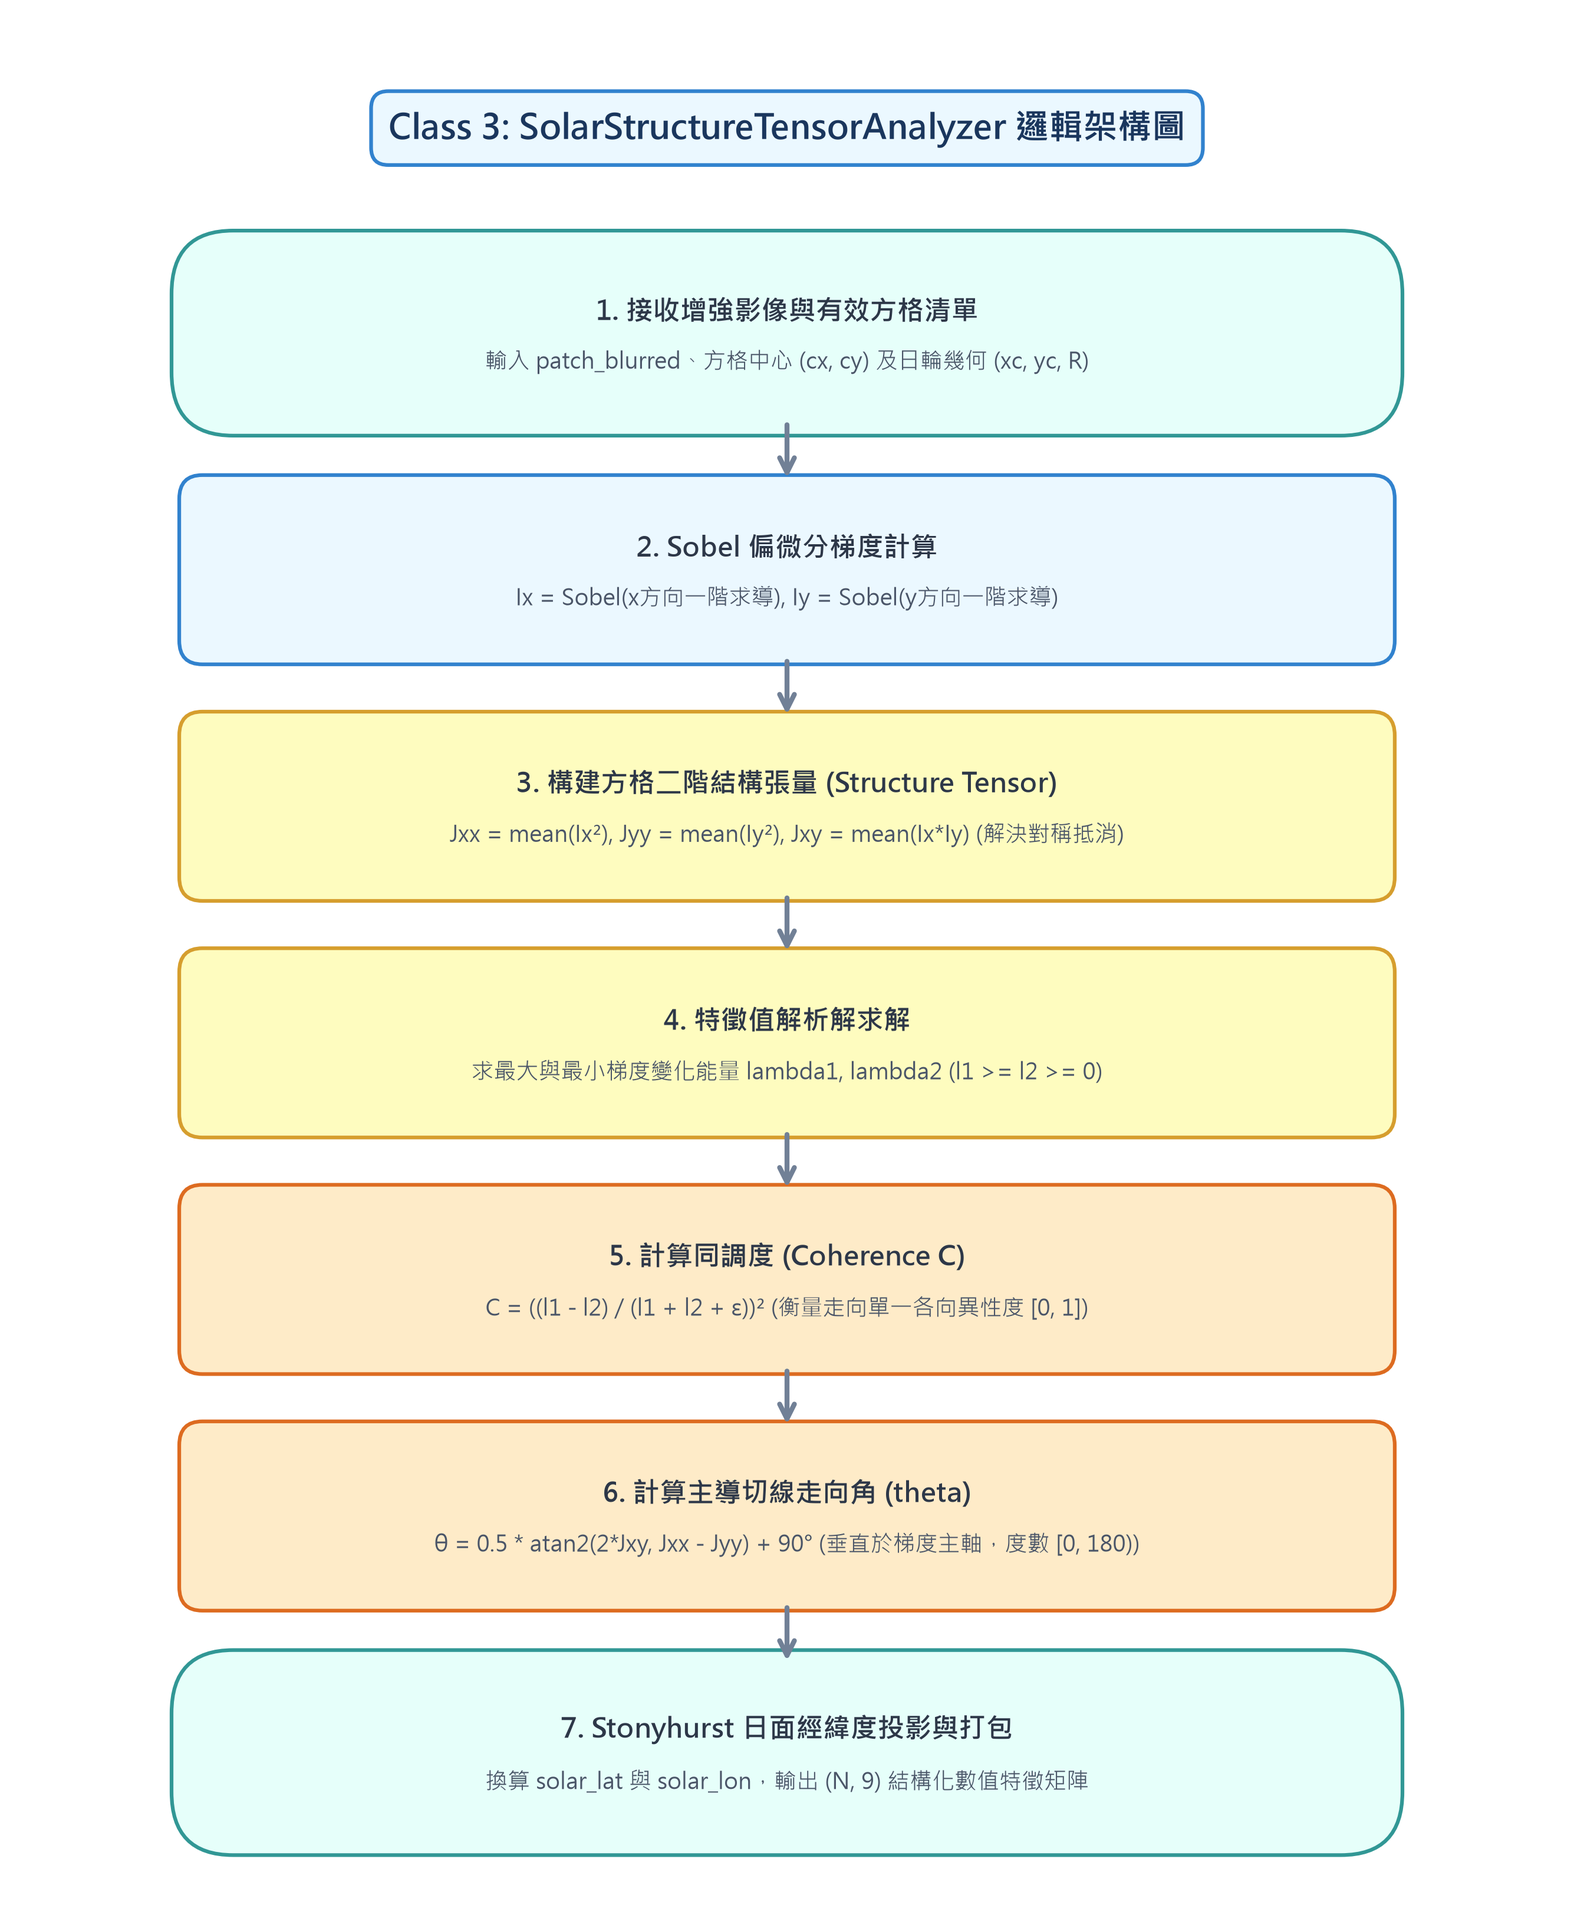
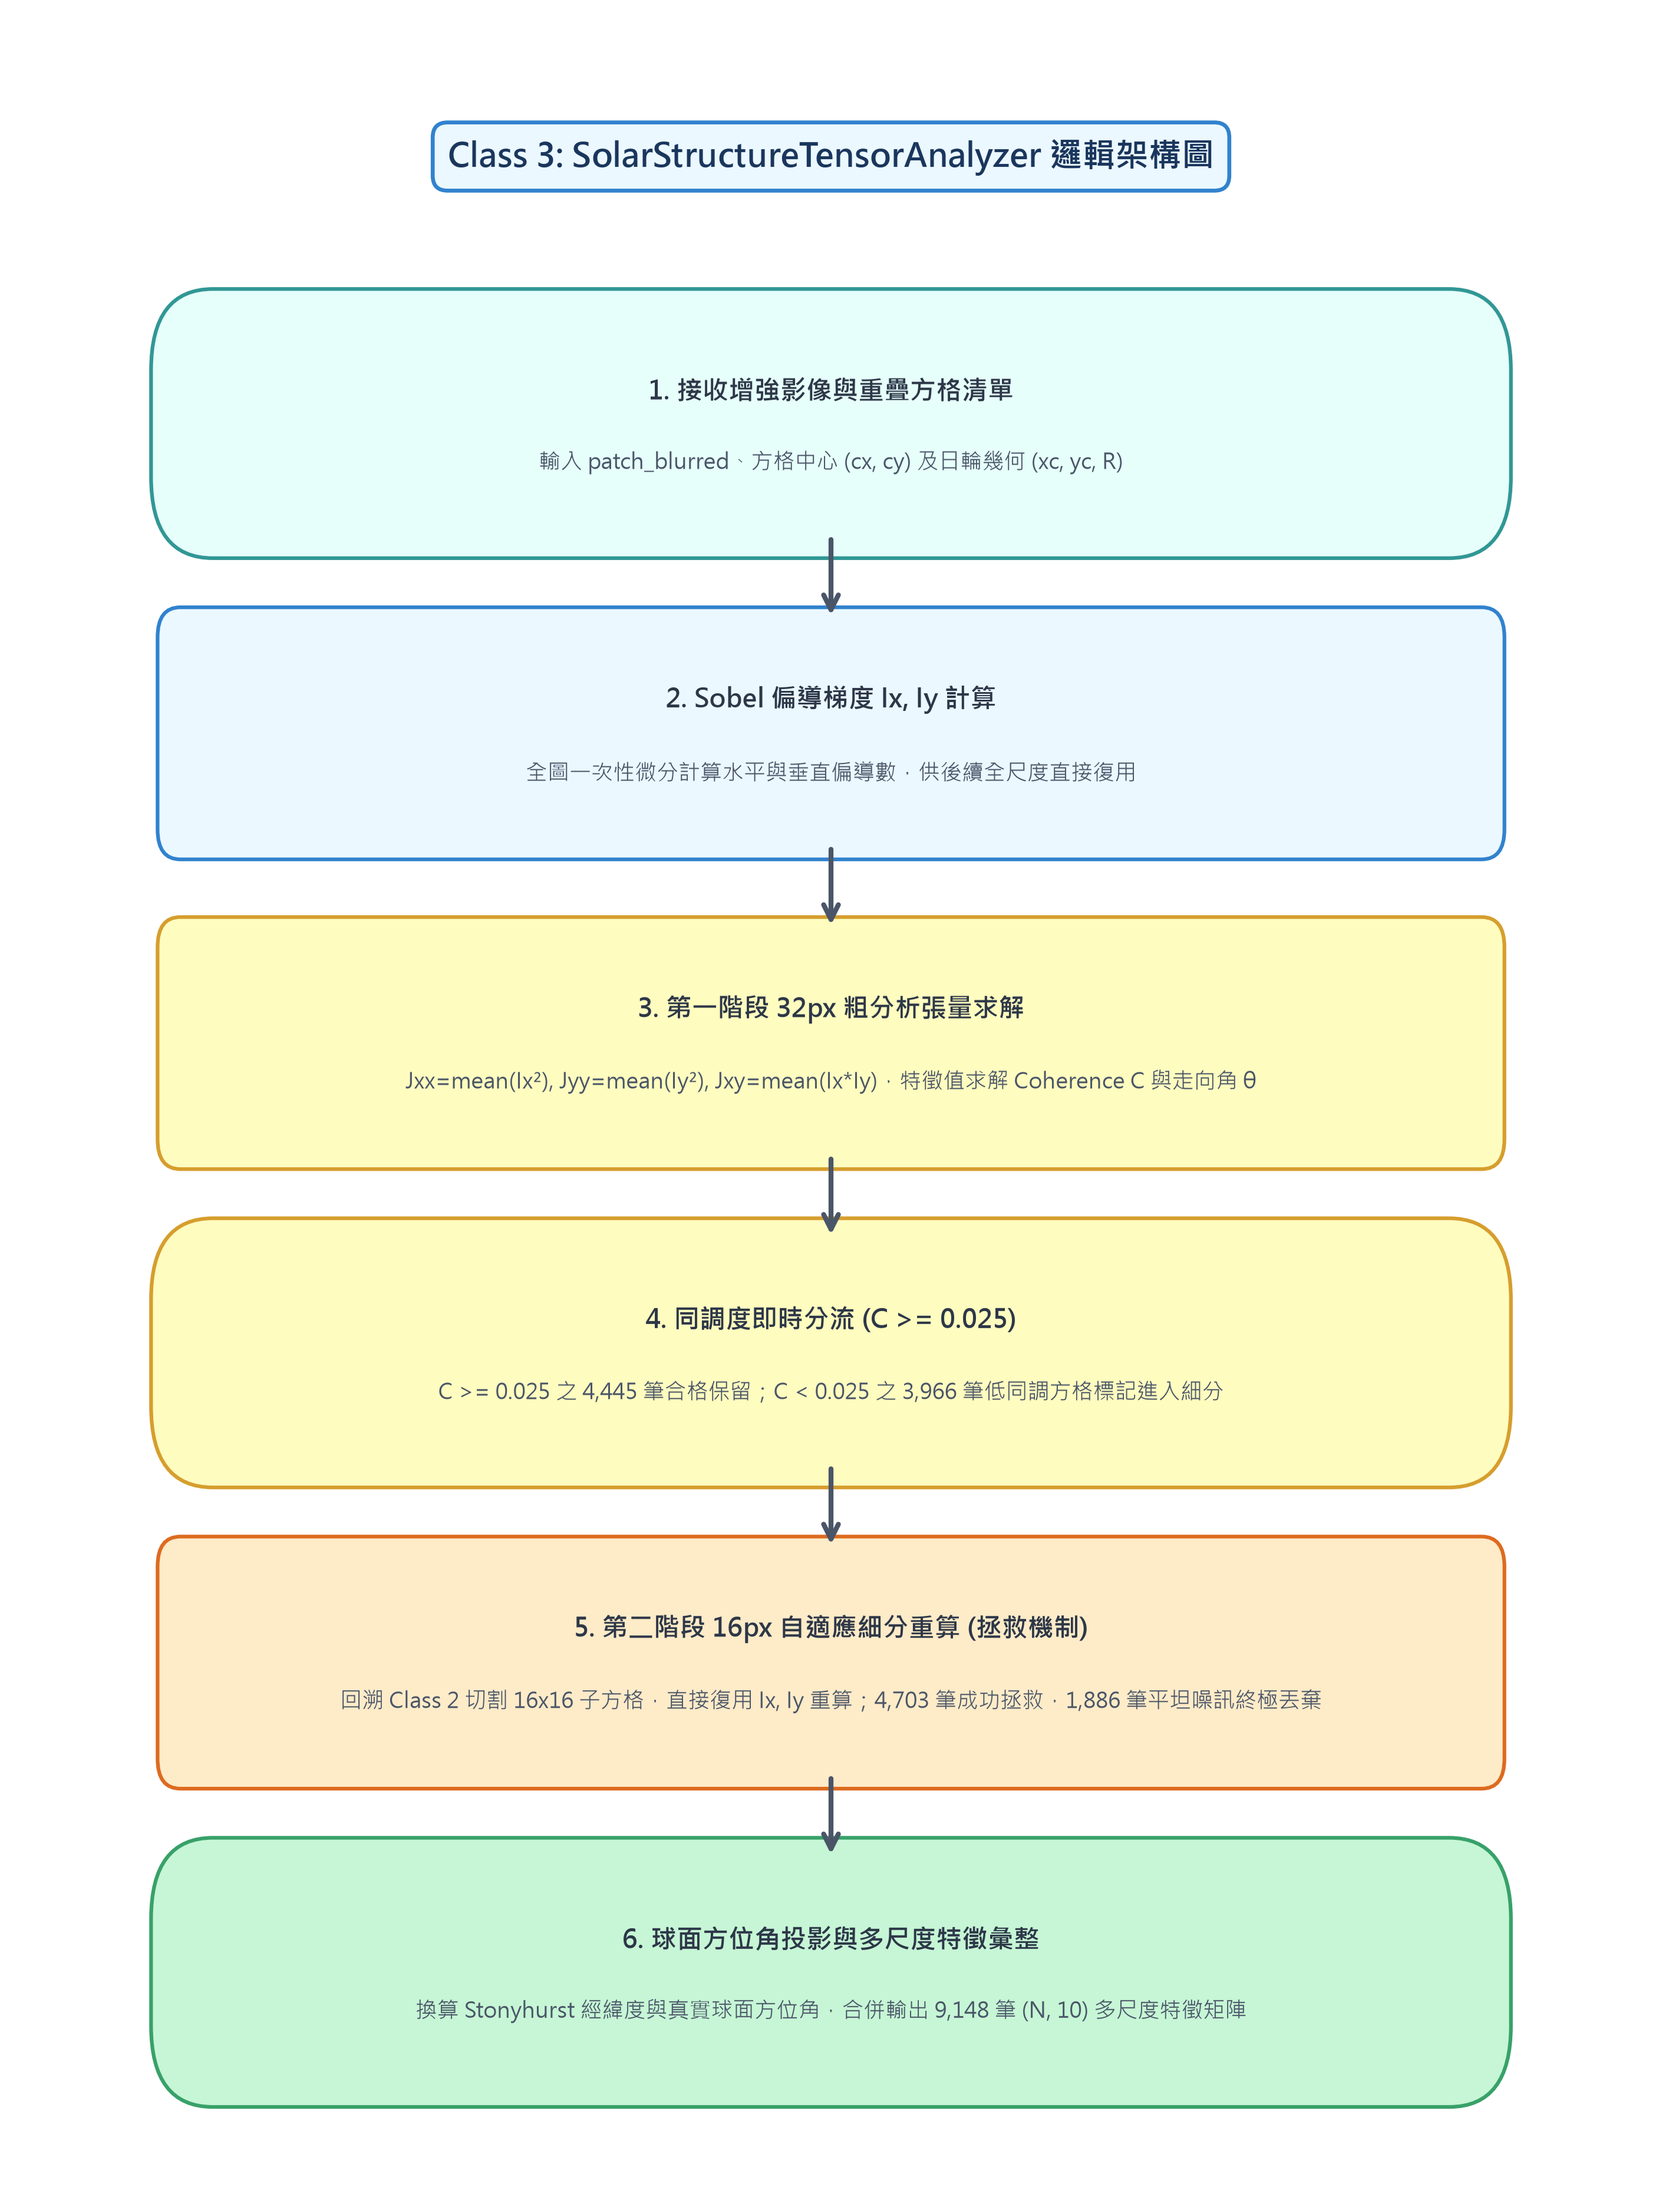
add mmd file

diff --git a/【Process】/process.code/generate_logic_diagrams.py b/【Process】/process.code/generate_logic_diagrams.py
@@ -1,6 +1,7 @@
 """
 generate_logic_diagrams.py
-繪製 Class 1 至 Class 4 的完整架構邏輯圖，並儲存為高解析度 PNG 檔案於 instruction/ 資料夾中。
+繪製 Class 1 至 Class 4 的最新架構邏輯圖 (含 50% 滑動重疊與 16px 自適應四叉樹細分機制)，
+並儲存為高解析度 PNG 檔案於 instruction/ 資料夾中。
 """
 
 import os
@@ -11,21 +12,24 @@ import matplotlib.patches as patches
 plt.rcParams['font.sans-serif'] = ['Microsoft JhengHei', 'SimHei', 'Arial Unicode MS', 'DejaVu Sans']
 plt.rcParams['axes.unicode_minus'] = False
 
-os.makedirs("instruction", exist_ok=True)
+_CURRENT_DIR = os.path.dirname(os.path.abspath(__file__))
+_PROJECT_ROOT = os.path.dirname(os.path.dirname(_CURRENT_DIR))
+_INSTRUCTION_DIR = os.path.join(_PROJECT_ROOT, "instruction")
+os.makedirs(_INSTRUCTION_DIR, exist_ok=True)
 
-def draw_flowchart(title, steps, filename, figsize=(9, 11)):
+def draw_flowchart(title, steps, filename, figsize=(9.5, 12.5)):
     fig, ax = plt.subplots(figsize=figsize, dpi=300)
     ax.set_xlim(0, 10)
-    ax.set_ylim(0, len(steps) * 1.5 + 1.5)
+    ax.set_ylim(0, len(steps) * 1.45 + 1.4)
     ax.axis("off")
 
     # 繪製標題
-    title_y = len(steps) * 1.5 + 0.8
+    title_y = len(steps) * 1.45 + 0.75
     ax.text(5, title_y, title, ha="center", va="center", 
-            fontsize=14, fontweight="bold", color="#1A365D",
-            bbox=dict(boxstyle="round,pad=0.5", facecolor="#EBF8FF", edgecolor="#3182CE", lw=1.5))
+            fontsize=13.5, fontweight="bold", color="#1A365D",
+            bbox=dict(boxstyle="round,pad=0.45", facecolor="#EBF8FF", edgecolor="#3182CE", lw=1.6))
 
-    y_pos = len(steps) * 1.5 - 0.5
+    y_pos = len(steps) * 1.45 - 0.5
     for i, step in enumerate(steps):
         name = step.get("name", "")
         desc = step.get("desc", "")
@@ -33,36 +37,36 @@ def draw_flowchart(title, steps, filename, figsize=(9, 11)):
         border = step.get("border", "#4A5568")
         shape = step.get("shape", "box")
 
-        # 繪製方框
+        # 節點形狀
         if shape == "round":
-            box = patches.FancyBboxPatch((1.2, y_pos - 0.45), 7.6, 0.9,
-                                        boxstyle="round,pad=0.2,rounding_size=0.4",
-                                        facecolor=color, edgecolor=border, lw=1.5)
+            box = patches.FancyBboxPatch((1.0, y_pos - 0.45), 8.0, 0.9,
+                                         boxstyle="round,pad=0.18,rounding_size=0.38",
+                                         facecolor=color, edgecolor=border, lw=1.5)
         elif shape == "diamond":
             box = patches.Polygon([[5, y_pos + 0.5], [8.8, y_pos], [5, y_pos - 0.5], [1.2, y_pos]],
                                   facecolor=color, edgecolor=border, lw=1.5)
         else:
-            box = patches.FancyBboxPatch((1.2, y_pos - 0.45), 7.6, 0.9,
-                                        boxstyle="round,pad=0.15,rounding_size=0.15",
-                                        facecolor=color, edgecolor=border, lw=1.5)
+            box = patches.FancyBboxPatch((1.0, y_pos - 0.45), 8.0, 0.9,
+                                         boxstyle="round,pad=0.14,rounding_size=0.14",
+                                         facecolor=color, edgecolor=border, lw=1.5)
         ax.add_patch(box)
 
         # 文字內容
         if desc:
-            ax.text(5, y_pos + 0.15, name, ha="center", va="center", fontsize=11, fontweight="bold", color="#2D3748")
-            ax.text(5, y_pos - 0.18, desc, ha="center", va="center", fontsize=9, color="#4A5568")
+            ax.text(5, y_pos + 0.16, name, ha="center", va="center", fontsize=10.5, fontweight="bold", color="#2D3748")
+            ax.text(5, y_pos - 0.18, desc, ha="center", va="center", fontsize=8.8, color="#4A5568")
         else:
-            ax.text(5, y_pos, name, ha="center", va="center", fontsize=11, fontweight="bold", color="#2D3748")
+            ax.text(5, y_pos, name, ha="center", va="center", fontsize=10.5, fontweight="bold", color="#2D3748")
 
         # 箭頭連接
         if i < len(steps) - 1:
-            ax.annotate("", xy=(5, y_pos - 0.55), xytext=(5, y_pos - 0.95),
-                        arrowprops=dict(arrowstyle="<-", color="#718096", lw=2, mutation_scale=15))
+            ax.annotate("", xy=(5, y_pos - 0.52), xytext=(5, y_pos - 0.92),
+                        arrowprops=dict(arrowstyle="<-", color="#4A5568", lw=2.0, mutation_scale=15))
 
-        y_pos -= 1.5
+        y_pos -= 1.45
 
     plt.tight_layout()
-    out_path = os.path.join("instruction", filename)
+    out_path = os.path.join(_INSTRUCTION_DIR, filename)
     plt.savefig(out_path, dpi=300, bbox_inches="tight")
     plt.close()
     print(f"已生成邏輯圖: {out_path}")
@@ -87,31 +91,31 @@ steps_c2 = [
     {"name": "3B. 影像形態學與幾何矩 (回退)", "desc": "遮蔽 Logo -> 門檻二值化 -> 開閉運算 -> cv2.moments 擬合 (xc, yc, R)", "color": "#EDF2F7", "border": "#718096"},
     {"name": "4. CLAHE 局部自適應直方圖均衡化", "desc": "clipLimit=3.0, tileGrid=(8,8)，壓抑全盤邊緣昏暗，凸顯暗纖維微弱反差", "color": "#EBF8FF", "border": "#3182CE"},
     {"name": "5. 高斯模糊降噪處理", "desc": "3x3 卷積核 (sigma=1.0) 平滑高頻感測器顆粒噪點", "color": "#EBF8FF", "border": "#3182CE"},
-    {"name": "6. 有效日面方格切割 (Patch Slicing)", "desc": "在 dist <= 0.92 * R 範圍內以 patch_size 步長切割方格，排除邊緣白環與太空", "color": "#EBF8FF", "border": "#3182CE"},
-    {"name": "7. 球面幾何透視校正與真實長寬記錄 (km)", "desc": "依方格中心 (phi, lam) 計算 W_km = s0*dx*sec(lam), H_km = s0*dy*sec(phi)，記錄長寬與長寬比", "color": "#E6FFFA", "border": "#319795", "shape": "round"}
+    {"name": "6. 四向 16px 滑動重疊切割 (50% Overlap)", "desc": "patch_size=32, stride=16 向四面滑動，消除邊界盲區，生成 8,411 個方格", "color": "#EBF8FF", "border": "#3182CE"},
+    {"name": "7. 球面幾何透視校正與真實長寬記錄 (km)", "desc": "依方格中心計算真實物理寬度、長度與面積 (km²)", "color": "#FEEBC8", "border": "#DD6B20"},
+    {"name": "8. 自適應四叉樹細分器 (Quadtree Refinement)", "desc": "接收低同調方格，切為 4 個 16x16 子方格 (去重與球面校正)，供 Class 3 拯救重算", "color": "#E6FFFA", "border": "#319795", "shape": "round"}
 ]
 draw_flowchart("Class 2: SolarDiskCalibrator 邏輯架構圖", steps_c2, "class2_logic.png")
 
 # ==================== Class 3 邏輯圖 ====================
 steps_c3 = [
-    {"name": "1. 接收增強影像與有效方格清單", "desc": "輸入 patch_blurred、方格中心 (cx, cy) 及日輪幾何 (xc, yc, R)", "color": "#E6FFFA", "border": "#319795", "shape": "round"},
-    {"name": "2. Sobel 偏微分梯度計算", "desc": "Ix = Sobel(x方向一階求導), Iy = Sobel(y方向一階求導)", "color": "#EBF8FF", "border": "#3182CE"},
-    {"name": "3. 構建方格二階結構張量 (Structure Tensor)", "desc": "Jxx = mean(Ix²), Jyy = mean(Iy²), Jxy = mean(Ix*Iy) (解決對稱抵消)", "color": "#FEFCBF", "border": "#D69E2E"},
-    {"name": "4. 特徵值解析解求解", "desc": "求最大與最小梯度變化能量 lambda1, lambda2 (l1 >= l2 >= 0)", "color": "#FEFCBF", "border": "#D69E2E"},
-    {"name": "5. 計算同調度 (Coherence C)", "desc": "C = ((l1 - l2) / (l1 + l2 + ε))² (衡量走向單一各向異性度 [0, 1])", "color": "#FEEBC8", "border": "#DD6B20"},
-    {"name": "6. 計算主導切線走向角 (theta)", "desc": "θ = 0.5 * atan2(2*Jxy, Jxx - Jyy) + 90° (垂直於梯度主軸，度數 [0, 180))", "color": "#FEEBC8", "border": "#DD6B20"},
-    {"name": "7. Stonyhurst 日面經緯度投影與打包", "desc": "換算 solar_lat 與 solar_lon，輸出 (N, 9) 結構化數值特徵矩陣", "color": "#E6FFFA", "border": "#319795", "shape": "round"}
+    {"name": "1. 接收增強影像與重疊方格清單", "desc": "輸入 patch_blurred、方格中心 (cx, cy) 及日輪幾何 (xc, yc, R)", "color": "#E6FFFA", "border": "#319795", "shape": "round"},
+    {"name": "2. Sobel 偏導梯度 Ix, Iy 計算", "desc": "全圖一次性微分計算水平與垂直偏導數，供後續全尺度直接復用", "color": "#EBF8FF", "border": "#3182CE"},
+    {"name": "3. 第一階段 32px 粗分析張量求解", "desc": "Jxx=mean(Ix²), Jyy=mean(Iy²), Jxy=mean(Ix*Iy)，特徵值求解 Coherence C 與走向角 θ", "color": "#FEFCBF", "border": "#D69E2E"},
+    {"name": "4. 同調度即時分流 (C >= 0.025)", "desc": "C >= 0.025 之 4,445 筆合格保留；C < 0.025 之 3,966 筆低同調方格標記進入細分", "color": "#FEFCBF", "border": "#D69E2E", "shape": "round"},
+    {"name": "5. 第二階段 16px 自適應細分重算 (拯救機制)", "desc": "回溯 Class 2 切割 16x16 子方格，直接復用 Ix, Iy 重算；4,703 筆成功拯救，1,886 筆平坦噪訊終極丟棄", "color": "#FEEBC8", "border": "#DD6B20"},
+    {"name": "6. 球面方位角投影與多尺度特徵彙整", "desc": "換算 Stonyhurst 經緯度與真實球面方位角，合併輸出 9,148 筆 (N, 10) 多尺度特徵矩陣", "color": "#C6F6D5", "border": "#38A169", "shape": "round"}
 ]
 draw_flowchart("Class 3: SolarStructureTensorAnalyzer 邏輯架構圖", steps_c3, "class3_logic.png")
 
 # ==================== Class 4 邏輯圖 ====================
 steps_c4 = [
-    {"name": "1. 接收 (N, 9) 特徵矩陣與增強影像", "desc": "解析方格座標、走向角 θ、同調度 C 與日輪幾何參數", "color": "#E6FFFA", "border": "#319795", "shape": "round"},
-    {"name": "2. 輸出結構化檔案至 process.export/process.data/ 目錄", "desc": "儲存 NumPy 二進位 (*_features.npy) 與 CSV 試算表 (*_features.csv)", "color": "#EBF8FF", "border": "#3182CE"},
+    {"name": "1. 接收 (N, 10) 多尺度特徵矩陣與增強影像", "desc": "解析 32px 與 16px 方格座標、走向角 θ、同調度 C 與日輪幾何", "color": "#E6FFFA", "border": "#319795", "shape": "round"},
+    {"name": "2. 輸出結構化特徵至 process.export/process.data/", "desc": "儲存 NumPy 二進位 (*_features.npy) 與 CSV 試算表 (*_features.csv)", "color": "#EBF8FF", "border": "#3182CE"},
     {"name": "3. 建立三通道視覺化畫布與日輪標註", "desc": "轉為 BGR 畫布，並以綠色圓圈標註定標日肢 (xc, yc, R)", "color": "#EBF8FF", "border": "#3182CE"},
-    {"name": "4. 門檻過濾與向量長度動態縮放", "desc": "排除 C < 0.025 之混亂區域；線段長度調變 L 正比於 C^0.4", "color": "#FEFCBF", "border": "#D69E2E"},
-    {"name": "5. HSV 走向色彩映射與向量疊加繪製", "desc": "角度 θ 對應 HSV 全色相 Hue；繪製抗鋸齒彩色走向線段與中心紅點", "color": "#FEEBC8", "border": "#DD6B20"},
-    {"name": "6. 影像存檔至 process.export/process.image/", "desc": "保存全盤走向疊加圖 (*_overlay.png) 與成果對照圖", "color": "#E6FFFA", "border": "#319795", "shape": "round"},
-    {"name": "7. Matplotlib 對比檢驗視窗呈現", "desc": "呼叫 plt.show() 直觀顯示 CLAHE 增強盤面與走向向量疊加成果", "color": "#C6F6D5", "border": "#38A169", "shape": "round"}
+    {"name": "4. 多尺度線長動態縮放與向量繪製", "desc": "線長自適應縮放 L 正比於 patch_size * C^0.4；角度對應 HSV 全色相 Hue 著色", "color": "#FEFCBF", "border": "#D69E2E"},
+    {"name": "5. 繪製 9,148 條走向向量與中心紅點", "desc": "在全盤增強底圖上精確渲染 32px 主特徵與 16px 微觀纖維向量", "color": "#FEEBC8", "border": "#DD6B20"},
+    {"name": "6. 影像存檔至 process.export/process.image/", "desc": "保存全盤走向疊加圖 (*_overlay.png) 與成果對照圖 (*_comparison.png)", "color": "#E6FFFA", "border": "#319795", "shape": "round"},
+    {"name": "7. Matplotlib 對比檢驗視窗呈現", "desc": "呼叫 plt.show() 直觀顯示 CLAHE 增強盤面與多尺度走向向量疊加成果", "color": "#C6F6D5", "border": "#38A169", "shape": "round"}
 ]
 draw_flowchart("Class 4: SolarResultExporter 邏輯架構圖", steps_c4, "class4_logic.png")
